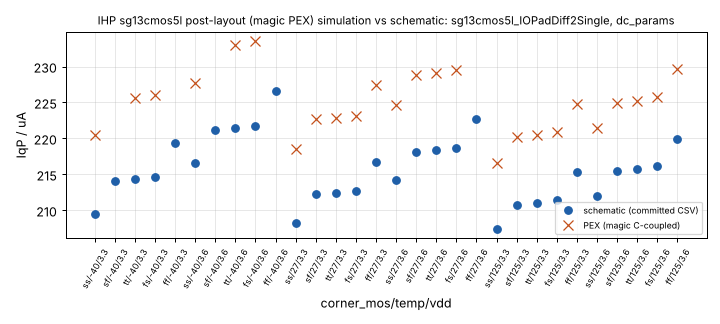
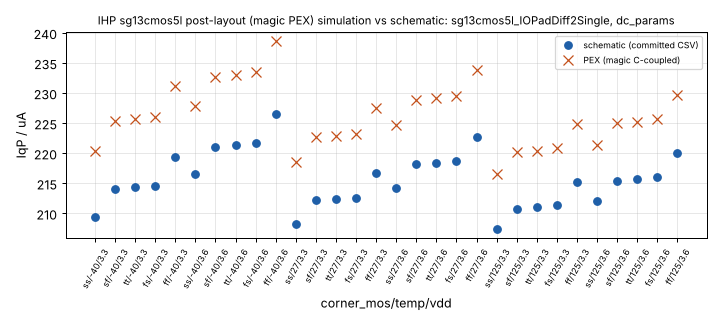
replica_bias: final results (pad_ref_rb PEX vs schematic, 100-run mismatch MC with per-run data, bias_dist_pd copy accuracy and MC); run.sh with JOBS
Claude-Session: https://claude.ai/code/session_01XU3KH8MC4er7X9Fx14LZcs

diff --git a/verification/c2_gaps/replica_bias/results.md b/verification/c2_gaps/replica_bias/results.md
@@ -1,0 +1,189 @@
+<!--
+SPDX-FileCopyrightText: 2026 Christoph Maier
+SPDX-License-Identifier: Apache-2.0
+-->
+# Results: pad_ref_rb post-layout and mismatch, bias_dist_pd copy accuracy
+
+IHP sg13cmos5l simulation (ngspice-47, PSP 103 OSDI, CACE 2.11), 2026-11-23. Layout: the cells of
+`final/gds/slot_7.gds` (slot commit `158afc5`), XOR-identical to the macro GDS at design commit `9052bd35`; extraction
+magic C-coupled (`sak-pex.sh -m 2`), netgen LVS of the extractions against the source netlists: match uniquely. Method,
+commands and limits: [README.md](README.md). All numbers below are copied from `results/tables.md` as written by
+`run.sh` (JOBS=1 run); the CSVs behind them are in `results/`.
+
+## 1. pad_ref_rb: PEX view vs schematic
+
+**Result: the PEX view gives the schematic's numbers.** Largest difference of one run: 0.1 mV in Vcm (vcm_dc_params
+and vref_cold_params, tt −40 °C 3.3 V: committed 1.24742 V, schematic rerun 1.24749 V, PEX 1.24752 V); every other DC
+quantity agrees to the 6 significant digits of the CSVs. The same 0.07 mV appears between the schematic rerun and the
+committed CSV, so 0.1 mV is the numerical resolution of that operating point, not a layout effect. This is expected:
+the C-coupled extraction adds only capacitances (77 in pad_ref_rb, 181 fF in total) to the same devices, and every group
+here is a DC operating point. In pd_params the disabled outputs differ by at most 0.12 nV (Vref) and the supply current
+by 0.1 pA, from the extracted junction areas / perimeters (ad, as, pd, ps).
+
+All six groups pass on the PEX view (CACE summaries in `results/cace_pex/`):
+
+| group (conditions) | quantity | limits | PEX min .. max |
+|---|---|---|---|
+| vcm_dc_params (3.3 / 3.6 V, 5 corners, −40 / 27 / 125 °C) | Vcm | 1.031 .. 1.53 V | 1.242 .. 1.395 V |
+| vcm_dc_3v0_params (3.0 V, 5 corners, 3 T) | Vcm | 1.031 .. 1.262 V | 1.120 .. 1.193 V |
+| vref_room_params (3.0 / 3.3 / 3.6 V, 5 corners, 27 °C) | Vref | 0.47 .. 0.51 V | 0.4832 .. 0.5038 V |
+| vref_hot_params (125 °C) | Vref | 0.55 .. 0.7 V | 0.5724 .. 0.5964 V |
+| vref_cold_params (−40 °C) | Vref | 0.35 .. 0.5 V | 0.4363 .. 0.4553 V |
+| all DC groups above | Ib (supply, without the 5 µA reference) | ≤ 25 µA | 18.93 .. 19.26 µA |
+| pd_params (disabled, 3.6 V, tt / ff, 27 / 125 °C) | Vcm / Vref / Ib | ≤ 1 mV / 1 mV / 0.1 µA | ≤ 0.31 µV / 16.5 µV / 9.9 nA |
+
+#### pad_ref_rb: schematic vs magic C-coupled PEX (IHP sg13cmos5l simulation, CACE 2.11, ngspice-47)
+
+Min .. max over the runs of each group; "max |PEX - sch|" = the largest difference of one run between the views
+(runs matched by their conditions); "rerun vs committed" = the same for this schematic rerun against the CSV committed
+in the design repository (2026-11-07).
+
+| group | runs | quantity | committed schematic min .. max | PEX min .. max | max \|PEX - sch\| | rerun vs committed max \|diff\| |
+|---|---|---|---|---|---|---|
+| vcm_dc_params | 30 / 30 | Vcm [V] | 1.242 .. 1.395 | 1.242 .. 1.395 | 0.0001 V | 7e-05 V |
+| vcm_dc_params | 30 / 30 | Vref [V] | 0.4374 .. 0.5964 | 0.4374 .. 0.5964 | 0 V | 0 V |
+| vcm_dc_params | 30 / 30 | Ib [uA] | 18.99 .. 19.26 | 18.99 .. 19.26 | 0 uA | 0 uA |
+| vcm_dc_3v0_params | 15 / 15 | Vcm [V] | 1.12 .. 1.193 | 1.12 .. 1.193 | 0 V | 0 V |
+| vcm_dc_3v0_params | 15 / 15 | Vref [V] | 0.4363 .. 0.5941 | 0.4363 .. 0.5941 | 0 V | 0 V |
+| vcm_dc_3v0_params | 15 / 15 | Ib [uA] | 18.93 .. 19.16 | 18.93 .. 19.16 | 0 uA | 0 uA |
+| vref_room_params | 15 / 15 | Vcm [V] | 1.14 .. 1.365 | 1.14 .. 1.365 | 0 V | 0 V |
+| vref_room_params | 15 / 15 | Vref [V] | 0.4832 .. 0.5038 | 0.4832 .. 0.5038 | 0 V | 0 V |
+| vref_room_params | 15 / 15 | Ib [uA] | 19.01 .. 19.16 | 19.01 .. 19.16 | 0 uA | 0 uA |
+| vref_hot_params | 15 / 15 | Vcm [V] | 1.178 .. 1.395 | 1.178 .. 1.395 | 0 V | 0 V |
+| vref_hot_params | 15 / 15 | Vref [V] | 0.5724 .. 0.5964 | 0.5724 .. 0.5964 | 0 V | 0 V |
+| vref_hot_params | 15 / 15 | Ib [uA] | 19.12 .. 19.26 | 19.12 .. 19.26 | 0 uA | 0 uA |
+| vref_cold_params | 15 / 15 | Vcm [V] | 1.12 .. 1.352 | 1.12 .. 1.352 | 0.0001 V | 7e-05 V |
+| vref_cold_params | 15 / 15 | Vref [V] | 0.4363 .. 0.4553 | 0.4363 .. 0.4553 | 0 V | 0 V |
+| vref_cold_params | 15 / 15 | Ib [uA] | 18.93 .. 19.08 | 18.93 .. 19.08 | 0 uA | 0 uA |
+| pd_params | 4 / 4 | Vcm [V] | 1.897e-09 .. 3.051e-07 | 1.897e-09 .. 3.051e-07 | 2.5e-12 V | 7e-13 V |
+| pd_params | 4 / 4 | Vref [V] | 9.403e-08 .. 1.651e-05 | 9.401e-08 .. 1.651e-05 | 1.2e-10 V | 4e-11 V |
+| pd_params | 4 / 4 | Ib [uA] | 7.060e-05 .. 9.877e-03 | 7.059e-05 .. 9.877e-03 | 9.9e-08 uA | 2.8e-08 uA |
+
+## 2. pad_ref_rb: mismatch Monte Carlo (schematic, 100 runs)
+
+The per-run CSV is `results/mc/mm_params_runs.csv`; the CACE summary of this run is identical to the one committed in
+the design repository (min / typ / max 1.247 / 1.261 / 1.274 V for Vcm, 0.481 / 0.493 / 0.502 V for Vref), so these
+are the runs behind the committed summary (same seeds, 12345 + iteration). Limits of the group: Vcm 1.2 … 1.32 V,
+Vref 0.47 … 0.52 V: all 100 runs pass, and mean ± 3 sigma is inside both.
+
+#### pad_ref_rb: local-mismatch Monte Carlo (IHP sg13cmos5l simulation, schematic, tt_mismatch, 27 C, 3.3 V, 100 runs)
+
+| quantity | n | mean | sigma | min | max | mean - 3 sigma .. mean + 3 sigma |
+|---|---|---|---|---|---|---|
+| Vcm | 100 | 1260.86 mV | 5.415 mV | 1246.91 mV | 1273.95 mV | 1244.61 .. 1277.10 mV |
+| Vref | 100 | 493.05 mV | 3.788 mV | 481.36 mV | 501.81 mV | 481.69 .. 504.42 mV |
+| Ib | 100 | 19.06 uA | 0.148 uA | 18.76 uA | 19.42 uA | 18.61 .. 19.50 uA |
+
+![MC histograms](results/pad_ref_rb_mc_hist.png)
+
+Statistical uncertainty: 100 runs estimate sigma to about ±7 % (1 sigma of the estimate). The run covers the DUT's
+devices (mm_ok=1), bias_gen_pd's mirror and the enable logic; not the harness iDAC mirror (no mm_ok in the template), and
+one condition only (tt, 27 °C, 3.3 V, sel = 0).
+
+## 3. bias_dist_pd: copy accuracy, leakage, mismatch
+
+**Systematic copy ratio: +0.49 … +1.56 % over 5 corners × −40 / 27 / 125 °C and an output voltage of 0.5 … 2.5 V**
+(5 µA in, 3.3 V; tt 27 °C at 1.0 V: 1.0123). The ratio falls with the output voltage by 0.44 … 0.54 % from 0.5 to 2.5 V
+(output conductance of PO / the switch) and with temperature by about 0.2 %; ff is highest, ss lowest. The four outputs
+are identical in both views (no mismatch in a corner run; the extraction has the same devices as the schematic). The
+schematic and the extraction differ by at most 1.3e-4 in the ratio (this run; ≤ 1.4e-4 in two earlier runs of the same
+flow), while two extractions of the same layout that differ only in the order of the capacitor lines (magic writes
+them in a varying order) differed by up to 2.5e-4 between themselves: the view difference is below the numerical
+resolution of these DC sweeps (reltol 1e-5; the schematic results repeat exactly).
+
+#### bias_dist_pd: copy ratio I(iout<j>) / I(iin0) at 5 uA, all four outputs on, 3.3 V (IHP sg13cmos5l simulation)
+
+View **schematic** (netlist/source/bias_dist_pd.spice + hv_logic.spice). Ratio min .. max over vc = 0.5 ... 2.5 V (41 points), all four outputs; spread = largest
+|ratio(out j) - ratio(out k)| at one vc.
+
+| corner | T [C] | ratio @ 0.5 V | ratio @ 1.0 V | ratio @ 2.5 V | min .. max (all outputs, 0.5 ... 2.5 V) | output spread |
+|---|---|---|---|---|---|---|
+| tt | -40 | 1.0138 | 1.0132 | 1.0093 | 1.0093 .. 1.0138 | 0.0e+00 |
+| tt | 27 | 1.0129 | 1.0123 | 1.0082 | 1.0082 .. 1.0129 | 0.0e+00 |
+| tt | 125 | 1.0118 | 1.0111 | 1.0066 | 1.0066 .. 1.0118 | 0.0e+00 |
+| ss | -40 | 1.0121 | 1.0115 | 1.0076 | 1.0076 .. 1.0121 | 0.0e+00 |
+| ss | 27 | 1.0113 | 1.0107 | 1.0066 | 1.0066 .. 1.0113 | 0.0e+00 |
+| ss | 125 | 1.0104 | 1.0097 | 1.0050 | 1.0050 .. 1.0104 | 0.0e+00 |
+| ff | -40 | 1.0156 | 1.0150 | 1.0112 | 1.0112 .. 1.0156 | 0.0e+00 |
+| ff | 27 | 1.0146 | 1.0140 | 1.0100 | 1.0100 .. 1.0146 | 0.0e+00 |
+| ff | 125 | 1.0133 | 1.0126 | 1.0082 | 1.0082 .. 1.0133 | 0.0e+00 |
+| sf | -40 | 1.0136 | 1.0130 | 1.0092 | 1.0092 .. 1.0136 | 0.0e+00 |
+| sf | 27 | 1.0127 | 1.0121 | 1.0081 | 1.0081 .. 1.0127 | 0.0e+00 |
+| sf | 125 | 1.0116 | 1.0110 | 1.0065 | 1.0065 .. 1.0116 | 0.0e+00 |
+| fs | -40 | 1.0140 | 1.0134 | 1.0095 | 1.0095 .. 1.0140 | 0.0e+00 |
+| fs | 27 | 1.0130 | 1.0124 | 1.0083 | 1.0083 .. 1.0130 | 0.0e+00 |
+| fs | 125 | 1.0119 | 1.0113 | 1.0066 | 1.0066 .. 1.0119 | 0.0e+00 |
+
+All corners and temperatures (schematic): ratio 1.0050 .. 1.0156, i.e. copy error +0.50 % .. +1.56 %.
+
+View **magic_pex_2** (magic C-coupled extraction of the bias_dist_pd cell of slot_7.gds). Ratio min .. max over vc = 0.5 ... 2.5 V (41 points), all four outputs; spread = largest
+|ratio(out j) - ratio(out k)| at one vc.
+
+| corner | T [C] | ratio @ 0.5 V | ratio @ 1.0 V | ratio @ 2.5 V | min .. max (all outputs, 0.5 ... 2.5 V) | output spread |
+|---|---|---|---|---|---|---|
+| tt | -40 | 1.0138 | 1.0132 | 1.0093 | 1.0093 .. 1.0138 | 0.0e+00 |
+| tt | 27 | 1.0128 | 1.0123 | 1.0082 | 1.0082 .. 1.0128 | 0.0e+00 |
+| tt | 125 | 1.0118 | 1.0112 | 1.0066 | 1.0066 .. 1.0118 | 0.0e+00 |
+| ss | -40 | 1.0121 | 1.0115 | 1.0076 | 1.0076 .. 1.0121 | 0.0e+00 |
+| ss | 27 | 1.0114 | 1.0107 | 1.0065 | 1.0065 .. 1.0114 | 0.0e+00 |
+| ss | 125 | 1.0103 | 1.0098 | 1.0049 | 1.0049 .. 1.0103 | 0.0e+00 |
+| ff | -40 | 1.0156 | 1.0150 | 1.0112 | 1.0112 .. 1.0156 | 0.0e+00 |
+| ff | 27 | 1.0146 | 1.0140 | 1.0100 | 1.0100 .. 1.0146 | 0.0e+00 |
+| ff | 125 | 1.0132 | 1.0126 | 1.0082 | 1.0082 .. 1.0132 | 0.0e+00 |
+| sf | -40 | 1.0136 | 1.0130 | 1.0092 | 1.0092 .. 1.0136 | 0.0e+00 |
+| sf | 27 | 1.0127 | 1.0120 | 1.0081 | 1.0081 .. 1.0127 | 0.0e+00 |
+| sf | 125 | 1.0116 | 1.0110 | 1.0065 | 1.0065 .. 1.0116 | 0.0e+00 |
+| fs | -40 | 1.0140 | 1.0134 | 1.0095 | 1.0095 .. 1.0140 | 0.0e+00 |
+| fs | 27 | 1.0130 | 1.0123 | 1.0084 | 1.0084 .. 1.0130 | 0.0e+00 |
+| fs | 125 | 1.0119 | 1.0113 | 1.0066 | 1.0066 .. 1.0119 | 0.0e+00 |
+
+All corners and temperatures (magic_pex_2): ratio 1.0049 .. 1.0156, i.e. copy error +0.49 % .. +1.56 %.
+
+![bias_dist_pd copy error](results/bias_dist_copy_error.png)
+
+Leakage relative to the 5 µA copy: 145 pA worst case = 2.9e-5 (output switch off, input on, ff 125 °C); block off:
+25.9 pA = 5.2e-6.
+
+#### bias_dist_pd: leakage of the outputs (IHP sg13cmos5l simulation; |I(iout<j>)| max over the 4 outputs and vc = 0.5 ... 2.5 V)
+
+| view | case | corner / T of the maximum | max \|I\| per output | at tt 27 C |
+|---|---|---|---|---|
+| schematic | en_3v3 = 0 (block off) | ff / 125 C | 25.9 pA | 0.0412 pA |
+| schematic | en_3v3 = 1, en_out = 0, input on | ff / 125 C | 145 pA | 0.115 pA |
+| magic_pex_2 | en_3v3 = 0 (block off) | ff / 125 C | 25.9 pA | 0.0412 pA |
+| magic_pex_2 | en_3v3 = 1, en_out = 0, input on | ff / 125 C | 145 pA | 0.115 pA |
+
+#### bias_dist_pd: local-mismatch Monte Carlo of the copy ratio (IHP sg13cmos5l simulation, tt_mismatch, 27 C, 3.3 V, 100 runs)
+
+mm_ok=1 added to every MOSFET (pex_for_sim.py --mm-ok); the source netlist of bias_dist_pd has no mm_ok, so this
+MC is new. Ratio at vc = 1.0 V.
+
+| view | output | mean | sigma | min | max |
+|---|---|---|---|---|---|
+| schematic | iout0 | 1.0131 | 0.0119 | 0.9829 | 1.0476 |
+| schematic | iout1 | 1.0129 | 0.0115 | 0.9795 | 1.0458 |
+| schematic | iout2 | 1.0127 | 0.0118 | 0.9831 | 1.0470 |
+| schematic | iout3 | 1.0131 | 0.0120 | 0.9747 | 1.0453 |
+| schematic | iout1 - iout2 (the pads' pair) | 0.0002 | 0.0036 | -0.0096 | 0.0099 |
+| magic_pex_2 | iout0 | 1.0132 | 0.0102 | 0.9905 | 1.0349 |
+| magic_pex_2 | iout1 | 1.0129 | 0.0104 | 0.9900 | 1.0363 |
+| magic_pex_2 | iout2 | 1.0127 | 0.0106 | 0.9859 | 1.0402 |
+| magic_pex_2 | iout3 | 1.0127 | 0.0103 | 0.9871 | 1.0392 |
+| magic_pex_2 | iout1 - iout2 (the pads' pair) | 0.0002 | 0.0041 | -0.0094 | 0.0086 |
+
+(n = 100 iterations per view)
+
+Mismatch dominates the per-output copy error: sigma 1.0 … 1.2 % per output (tt 27 °C) against a systematic +1.2 %, so
+a single output lies within about +1.2 % ± 3.6 % (3 sigma). The two pads' outputs iout1 / iout2 share NI / NM / PD, so
+their difference has sigma 0.36 … 0.41 %. The schematic and PEX sigmas (1.15 … 1.20 % vs 1.02 … 1.06 %) come from
+different random draws (the device order differs) and differ by about the statistical uncertainty of 100 runs
+(±14 % at 95 % confidence); the MC does not include the source current's own error or layout gradients.
+
+## Not resolved here (TBD)
+
+- Dynamic behaviour on the PEX view (enable time, supply rejection, the pads' kick-back on vcm / vref): no AC or
+  transient group exists in the pad_ref_rb yaml; not run.
+- Full-RC extraction (wiring resistance) not done; `vcm_sel_params` not run on the PEX view.
+- bias_dist_pd with its real loads (the trees' input diodes behind their switches), with several inputs summed, at
+  3.0 / 3.6 V, and its mismatch MC at other corners / temperatures.
+- The 31 / 4 magic extraction warnings were not examined individually.

diff --git a/verification/c2_gaps/slot_modes_bg/README.md b/verification/c2_gaps/slot_modes_bg/README.md
@@ -1,0 +1,89 @@
+<!--
+SPDX-FileCopyrightText: 2026 Christoph Maier
+SPDX-License-Identifier: Apache-2.0
+-->
+# Slot 7: mode start-up at ss / −40 °C, mode table over PVT, bg_core_pd alone
+
+IHP sg13cmos5l simulation (ngspice, IHP OSDI models). This fills three gaps in the slot-level characterization of the
+taped-out slot 7 (commit `158afc5afab0056bd6d216a4db3833e34a364949` of this repository):
+
+1. **The ss / −40 °C mode failures** in the designer's tier-1 mode runs (`docs/slot7_hookup/tier1/modes.txt` of the
+   design repository: swap, mon, feed, ext, swap+feed `FAILED` at ss −40 °C, "stall at the bandgap's start-up node").
+   Question: simulator artefact or a second stable state of the bandgap (real start-up risk)?
+2. **Mode table over more PVT points** than the designer's 3 (modes) / 5 (round trip).
+3. **`bg_core_pd` alone**: output current over MOS × rhigh corners × T × V, start-up by supply ramp, supply
+   sensitivity, and a check for a zero-current state.
+
+Verdict and numbers: **`results.md`**. Generated tables: `results_tables.md`, CSVs, plots.
+
+## Sources
+
+| what | where |
+|---|---|
+| design repository | <https://github.com/tatzelbrumm/sg13cmos5l_cm_ip__single2diff2single> commit `9052bd35928c6d40344e8e686c9abbe736bfadb9` (fetched by `run.sh`, only the paths below, no full clone) |
+| tier-1 scripts | `docs/slot7_hookup/tier1/run_tier1.py`, `run_modes.py` (imported unchanged: same netlists, same port wrapping) |
+| slot glue | `macros/slot_7/netlist/source/slot_7.spice` (`slot_7`, `s7_ctrl`, `s7_doutpd`) |
+| views used in the slot decks | both custom pads, `pad_ref_rb`, `bias_dist_pd`: **extracted** (`netlist/layout/*_klayout.cir`, converted by the designer's `run_starve.convert()`); `bg_core_pd`: **schematic** (`netlist/schematic/bg_core_pd_magic.spice`), as in the designer's runs; `ls_up_fs`, `s7_ctrl`, `hv_logic`, `en_ctrl_3v3`: source netlists |
+| views used for bg_core_pd alone | **schematic** `macros/bg_core_pd/netlist/schematic/bg_core_pd_magic.spice`; **extracted** `macros/bg_core_pd/netlist/pex/bg_core_pd_magic_pex_3.spice` (magic PEX, R + C) |
+| PDK | IHP-Open-PDK `ihp-sg13cmos5l`, commit `df4c5054ee8ca481c3eb873687274f28cdb50b1e`, `.spiceinit` of the PDK (OSDI psp103, r3_cmc, ...) |
+
+## Tools
+
+- `ngspice -v`: `ngspice-47 : Circuit level simulation program`, compiled with KLU (the decks use the default SPARSE
+  solver).
+- Python 3.13.18, matplotlib 3.11.2, numpy 2.5.3 (tables / plots only). CACE 2.11 installed, not used.
+
+## Files
+
+| file | what |
+|---|---|
+| `run.sh` | reproduces everything: `./run.sh [WORKDIR] [fetch\|designer\|modes\|bg\|tables]` (default all; at most 2 ngspice in parallel, set `NPAR` in the script) |
+| `slot_modes.py` | slot 7 decks: `pu` = power-up transient per mode (the method of task 1), `dcop` = the designer's DC deck with stderr kept, `dcns` = `dcop` + `.nodeset` of the bandgap nodes (diagnosis only) |
+| `jobs_modes.txt` | job list for `slot_modes.py`, priority order |
+| `bg_core.py` | bg_core_pd alone: DC table, supply ramps, zero-state diagnosis |
+| `tables.py`, `plots.py` | CSV / markdown tables, PNG plots from the runs |
+| `designer_modes_rerun_ss.txt` | the designer's `run_modes.py`, unchanged, re-run at ss −40 °C here |
+| `results.md` | verdict, summary, what it does not show |
+| `results_tables.md` | all generated tables |
+| `slot_modes_powerup.csv`, `slot_modes_dc_diag.csv` | slot 7 per mode × PVT; DC diagnosis |
+| `bg_core_dc.csv`, `bg_core_ramp.csv`, `bg_core_diag.csv` | bg_core_pd alone |
+| `slot_powerup_ss_m40.png`, `bg_core_ramp.png` | waveforms |
+
+## Method
+
+**Slot decks (`slot_modes.py pu`).** The designer's testbench (both pads, slot_7, pad in / pad out, bus sources and
+loads as in `run_modes.py`), but as a transient from all nodes at 0 V (`uic`, no `.ic` / `.nodeset`):
+vdd_3v3 and iovdd ramp 0 → V in 10 µs, v12 = 1.2 V and the mode bits from t = 0 (register written before enable),
+`enable` 0 → 1.2 V at 20 µs. Pad in 0.5 V to 40 µs, then 0 / 0.25 / 0.5 / 0.75 / 1.0 V for 10 µs each, sampled at each
+step's end; error = pad out − expected (`run_modes.py`'s expressions: direct vcm + (in − vref), swap vcm − (in − vref),
+feed vcm + (bus0 − bus1)/2, ext 1.30 + in − 0.50). Feed modes: pad in fixed 0.5 V, one sample at 90 µs. Solver aids
+(no circuit change): `method=gear`, `cshunt=1e-15` (as the designer's own transient in `run_tier1.py`), maximum time
+step 10 ns. Without the step limit the transient aborts with "timestep too small" in the D2S pad's antenna diode `X$3`
+(`dpantenna`, pad → iovdd): at 5.9 µs (trapezoidal, no cshunt), 21.3 µs (gear + cshunt, swap) and 6.6 µs (gear +
+cshunt + rshunt 1 TΩ, default mode); these aborts are what the logs show, the bandgap was running in each case.
+
+**DC diagnosis (`dcop`, `dcns`).** The designer's DC deck, unchanged, with ngspice's stderr kept, and the same deck
+with `.nodeset` of the bandgap nodes (g, vpc, vpg, ks, ibg) at their running values (from the power-up transient).
+
+**bg_core_pd alone (`bg_core.py`).** `iout` into a 0.7 V source; enabled (`en_3v3` = vdd, `en_3v3_b` = 0). DC: `.op`,
+cross-checked with the end of a 200 µs power-up transient (vdd 0 → V in 2 µs) and its value at 100 µs. MOS tt / ss /
+ff / sf / fs × rhigh `res_typ` / `res_bcs` / `res_wcs` (schematic; extracted: res_typ) × −40 / 27 / 125 °C × 3.0 / 3.3
+/ 3.6 V; pnpMPA typ. For the extracted view the DC runs use the PEX netlist without its capacitors (DC-equivalent):
+with them, ngspice's `.op` ends in its "transient op" with capacitor currents still flowing (ss −40 °C: 6.92 µA with
+pex_3, 8.29 µA with pex_2, against 4.85 µA without capacitors, pex_1 and schematic). Ramps: vdd = en_3v3 0 → V in
+1 µs and in 1 ms (`method=gear`; with trapezoidal integration iout alternates point to point around its DC value,
+e.g. 4.59 / 5.18 µA, the known trapezoidal ringing). Zero-state check: `.op` with `.nodeset` at the zero-current
+state, and a transient with the supply up and `.ic` at the zero-current state.
+
+## What this does NOT show
+
+- No Monte Carlo / mismatch; pnpMPA only `typ`; rhigh corners only for bg_core_pd alone (slot runs: res_typ).
+- `bg_core_pd` in the slot decks is the schematic view (as in the designer's runs); its extracted view is only
+  simulated alone. `ls_up_fs` and `s7_ctrl` are source netlists (no layout netlist used).
+- No package, bond wire, ESD event, harness or instrument model; pad out unloaded (1 GΩ) as in the designer's runs.
+- Supply ramps for the slot: one shape (10 µs, enable at 20 µs); for bg_core_pd alone: 1 µs and 1 ms, enable tied to
+  vdd. Not covered: enable toggling while powered, supply dips / brown-out, very slow (> 1 ms) ramps.
+- The slot mode table covers only the PVT points that finished in the time box (see `results.md`); `run.sh` runs the
+  full job list.
+- Absence of a second state is shown for the PVT points simulated, by the methods above; it is not a proof for all
+  conditions.

diff --git a/verification/c2_gaps/d2s_pex/results.md b/verification/c2_gaps/d2s_pex/results.md
@@ -23,7 +23,7 @@ schematic runs do not (see README.md: without it the PEX operating point did not
 
 | group | status |
 |---|---|
-| dc_params | pass 1 (no rshunt) done: 25 of 30 runs, see below; pass 2 (rshunt) queued last |
+| dc_params | done: 30 of 30 schematic runs have a PEX result |
 | ac_params | done: 15 of 15 schematic runs have a PEX result |
 | ac_load_params | done: 6 of 6 schematic runs have a PEX result |
 | tran_params | done: 9 of 9 schematic runs have a PEX result |
@@ -37,6 +37,14 @@ schematic runs do not (see README.md: without it the PEX operating point did not
 
 | group | quantity | N sch | sch min | sch median | sch max | N pex | pex min | pex median | pex max | max per-run change % |
 |---|---|---|---|---|---|---|---|---|---|---|
+| dc_params | Gain[] | 30 | 0.4981 | 0.5 | 0.5 | 30 | 0.4983 | 0.5 | 0.5 | +0.0542 |
+| dc_params | Vos_out[mV] | 30 | 3.487e-05 | 7.344e-05 | 0.001947 | 30 | 4.414e-05 | 7.998e-05 | 0.001748 | +26.6 |
+| dc_params | INL[mV] | 30 | 0.0001222 | 0.0004804 | 0.007404 | 30 | 0.0001199 | 0.0004495 | 0.0075 | -9.14 |
+| dc_params | Iio[A] | 30 | 0.0002932 | 0.0003017 | 0.000314 | 30 | 0.0003018 | 0.0003113 | 0.0003253 | +3.58 |
+| dc_params | Icore[A] | 30 | 8.253e-12 | 1.185e-10 | 2.389e-08 | 30 | 1.425e-11 | 1.245e-10 | 2.39e-08 | +72.7 |
+| dc_params | IqP[A] | 30 | 0.0002074 | 0.0002154 | 0.0002266 | 30 | 0.0002166 | 0.0002255 | 0.0002386 | +5.35 |
+| dc_params | IqN[A] | 30 | 0.000207 | 0.0002146 | 0.0002265 | 30 | 0.0002162 | 0.000225 | 0.0002385 | +5.35 |
+| dc_params | Imin[A] | 30 | 9.577e-05 | 0.0001051 | 0.0001119 | 30 | 0.0001047 | 0.0001133 | 0.0001203 | +9.3 |
 | ac_params | Acl_dB[dB] | 15 | -6.055 | -6.022 | -6.021 | 15 | -6.05 | -6.021 | -6.021 | +0.0801 |
 | ac_params | f3dB[MHz] | 15 | 1.778e+06 | 2.015e+06 | 2.252e+06 | 15 | 1.569e+06 | 1.774e+06 | 2.016e+06 | -12.9 |
 | ac_params | Peak_dB[dB] | 15 | 3.027e-07 | 9.28e-07 | 1.532e-06 | 15 | 4.475e-07 | 1.224e-06 | 1.815e-06 | +107 |
@@ -84,6 +92,18 @@ scripts/cace/spec_table.py of the design repository commit 91a7da8b on csv/*_pex
 
 | group | quantity | unit | limit | worst | runs | verdict |
 |---|---|---|---:|---:|---:|---|
+| dc_params | Gain |  | >= 0.49 | 0.4983 | 30 | pass |
+| dc_params | Gain |  | <= 0.51 | 0.5 | 30 | pass |
+| dc_params | Output offset | mV | >= -5 | 0.04414 | 30 | pass |
+| dc_params | Output offset | mV | <= 5 | 1.748 | 30 | pass |
+| dc_params | Integral nonlinearity | mV | <= 10 | 7.5 | 30 | pass |
+| dc_params | IO ring supply current | uA | <= 400 | 325.3 | 30 | pass |
+| dc_params | Core ring supply current | nA | <= 100 | 23.9 | 30 | pass |
+| dc_params | Quiescent current OP | uA | >= 150 | 216.6 | 30 | pass |
+| dc_params | Quiescent current OP | uA | <= 300 | 238.6 | 30 | pass |
+| dc_params | Quiescent current ON | uA | >= 150 | 216.2 | 30 | pass |
+| dc_params | Quiescent current ON | uA | <= 300 | 238.5 | 30 | pass |
+| dc_params | Minimum output-device current | uA | >= 30 | 104.7 | 30 | pass |
 | ac_params | Closed-loop gain | dB | >= -6.2 | -6.05 | 15 | pass |
 | ac_params | Closed-loop gain | dB | <= -5.85 | -6.021 | 15 | pass |
 | ac_params | Bandwidth | MHz | >= 1 | 1.569 | 15 | pass |
@@ -139,9 +159,25 @@ sf/-40/3.3, ff/-40/3.3, sf/-40/3.6, ff/-40/3.6, ff/27/3.6. Schematic: all 30 run
 | dc_params | IqN[A] | 30 | 0.000207 | 0.0002146 | 0.0002265 | 25 | 0.0002162 | 0.0002244 | 0.0002335 | +5.32 |
 | dc_params | Imin[A] | 30 | 9.577e-05 | 0.0001051 | 0.0001119 | 25 | 0.0001047 | 0.0001125 | 0.0001184 | +9.3 |
 
+## Effect of rshunt = 1e12 on the PEX view (dc_params pass 1 vs pass 2)
+
+Both columns are PEX; pass 1 without rshunt (25 runs), pass 2 with rshunt 1e12 (30 runs). The per-run change over
+the 25 common runs bounds what rshunt does to the DC quantities.
+
+| group | quantity | N pass 1 | pass 1 min | pass 1 median | pass 1 max | N pass 2 | pass 2 min | pass 2 median | pass 2 max | max per-run change % |
+|---|---|---|---|---|---|---|---|---|---|---|
+| dc_params | Gain[] | 25 | 0.4983 | 0.5 | 0.5 | 30 | 0.4983 | 0.5 | 0.5 | +0.0018 |
+| dc_params | Vos_out[mV] | 25 | 3.202e-05 | 7.024e-05 | 0.001737 | 30 | 4.414e-05 | 7.998e-05 | 0.001748 | +37.9 |
+| dc_params | INL[mV] | 25 | 0.0001209 | 0.0004867 | 0.0075 | 30 | 0.0001199 | 0.0004495 | 0.0075 | -2.81 |
+| dc_params | Iio[A] | 25 | 0.0003017 | 0.0003107 | 0.0003198 | 30 | 0.0003018 | 0.0003113 | 0.0003253 | +0.00381 |
+| dc_params | Icore[A] | 25 | 8.253e-12 | 2.435e-10 | 2.389e-08 | 30 | 1.425e-11 | 1.245e-10 | 2.39e-08 | +72.7 |
+| dc_params | IqP[A] | 25 | 0.0002166 | 0.000225 | 0.0002335 | 30 | 0.0002166 | 0.0002255 | 0.0002386 | +0.00343 |
+| dc_params | IqN[A] | 25 | 0.0002162 | 0.0002244 | 0.0002335 | 30 | 0.0002162 | 0.000225 | 0.0002385 | -0.00272 |
+| dc_params | Imin[A] | 25 | 0.0001047 | 0.0001125 | 0.0001184 | 30 | 0.0001047 | 0.0001133 | 0.0001203 | +0.00542 |
+
 ## Plots
 
 - plots/f3dB_per_corner.png: closed-loop -3 dB bandwidth per corner_mos/temp (ac_params, pass 2)
-- plots/inl_per_corner.png: INL per corner_mos/temp/vdd (dc_params; pass 2 once it has run, else pass 1)
-- plots/iqp_per_corner.png: quiescent current of the output PMOS (dc_params; PEX = sum over the 82 extracted fingers)
+- plots/inl_per_corner.png: INL per corner_mos/temp/vdd (dc_params, pass 2)
+- plots/iqp_per_corner.png: quiescent current of the output PMOS (dc_params pass 2; PEX = sum over the 82 extracted fingers)
 
